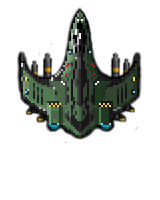
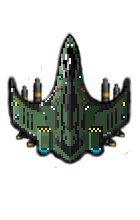
Can fire one shoot

Changed region(s): [[0.0286, 0.03, 0.9429, 0.75], [0.8857, 0.69, 0.9143, 0.72]]

diff --git a/src/ship.cpp b/src/ship.cpp
@@ -18,10 +18,17 @@ player::player(float pos_x, float pos_y)
     if (!texture_exhaust.loadFromFile("img/spaceship2_2.png")) {
         cout << "Ошибка загрузки текстуры" << endl;
     }
+    if (!texture_fire.loadFromFile("img/spaceship2_fire.png")) {
+        cout << "Ошибка загрузки текстуры" << endl;
+    }
+    if (!texture_exhaust_fire.loadFromFile("img/spaceship2_2_fire.png")) {
+        cout << "Ошибка загрузки текстуры" << endl;
+    }
     sprite.setTexture(texture);
     sprite.setOrigin(sf::Vector2f(80.f, 100.f));
     origin = sprite.getOrigin();
-    sprite.setPosition(sf::Vector2f(pos_x, pos_y)); // absolute position
+    sprite.setPosition(sf::Vector2f(pos_x, pos_y));
+    speed = 0.1;
 }
 
 void player::move(sf::Event event, unsigned int width, unsigned int height)
@@ -29,27 +36,51 @@ void player::move(sf::Event event, unsigned int width, unsigned int height)
     this->position = this->sprite.getPosition();
     if (sf::Keyboard::isKeyPressed(sf::Keyboard::Left)) {
         if (this->position.x > (0 + this->origin.x)) {
-            this->sprite.move(sf::Vector2f(-0.15f, 0)); // offset relative to the current position
+            this->sprite.move(sf::Vector2f(-3 * speed, 0));
         }
     }
     if (sf::Keyboard::isKeyPressed(sf::Keyboard::Right)) {
         if (this->position.x < (width - this->origin.x)) {
-            this->sprite.move(sf::Vector2f(0.15f, 0)); // offset relative to the current position
+            this->sprite.move(sf::Vector2f(3 * speed, 0));
         }
     }
     if (sf::Keyboard::isKeyPressed(sf::Keyboard::Up)) {
         this->sprite.setTexture(this->texture_exhaust);
         if (this->position.y > (0 + this->origin.y)) {
-            this->sprite.move(sf::Vector2f(0, -0.45f)); // offset relative to the current position
+            this->sprite.move(sf::Vector2f(0, -5 * speed));
         }
     }
     if (sf::Keyboard::isKeyPressed(sf::Keyboard::Down)) {
-        if (this->position.y < (height - (this->origin.y - 60))) {
-            this->sprite.move(sf::Vector2f(0, 0.12f)); // offset relative to the current position
+        if (this->position.y < (height - (this->origin.y))) {
+            this->sprite.move(sf::Vector2f(0, 2 * speed));
         }
     }
     if (event.type == sf::Event::KeyReleased) {
         if (event.key.code == sf::Keyboard::Up) {
+            this->sprite.setTexture(this->texture);
+        }
+    }
+
+    // if (sf::Keyboard::isKeyPressed(sf::Keyboard::Up) == 0) {
+    if (this->position.y < (height - (this->origin.y))) {
+        this->sprite.move(sf::Vector2f(0, 0.1f));
+    }
+    // }
+}
+
+void player::fire(sf::Event event, bullet* bul)
+{
+    this->position = this->sprite.getPosition();
+    if (bul->life == false && sf::Keyboard::isKeyPressed(sf::Keyboard::Up) == 1 && sf::Keyboard::isKeyPressed(sf::Keyboard::F)) {
+        this->sprite.setTexture(this->texture_exhaust_fire);
+        bul->init(position.x - 10, position.y - 60);
+    }
+    if (bul->life == false && sf::Keyboard::isKeyPressed(sf::Keyboard::F) && sf::Keyboard::isKeyPressed(sf::Keyboard::Up) == 0) {
+        this->sprite.setTexture(this->texture_fire);
+        bul->init(position.x - 10, position.y - 60);
+    }
+    if (event.type == sf::Event::KeyReleased) {
+        if (event.key.code == sf::Keyboard::F && sf::Keyboard::isKeyPressed(sf::Keyboard::Up) == 0) {
             this->sprite.setTexture(this->texture);
         }
     }

diff --git a/src/bullet.cpp b/src/bullet.cpp
@@ -1,0 +1,42 @@
+#include "ship.hpp"
+#include <iostream>
+bullet::bullet()
+{
+}
+
+bullet::~bullet()
+{
+}
+
+bullet::bullet(float pos_x, float pos_y)
+{
+    if (!texture.loadFromFile("img/bullet.png")) {
+        cout << "Ошибка загрузки текстуры" << endl;
+    }
+    sprite.setTexture(texture);
+    // sprite.setOrigin(sf::Vector2f(80.f, 100.f));
+    // origin = sprite.getOrigin();
+    sprite.setPosition(sf::Vector2f(pos_x, pos_y));
+    speed = 0.5;
+}
+
+void bullet::move()
+{
+    this->position = this->sprite.getPosition();
+    if (this->position.y > 0) {
+        this->sprite.move(sf::Vector2f(0, -1 * this->speed));
+    } else {
+        this->life = false;
+    }
+}
+
+void bullet::init(float pos_x, float pos_y)
+{
+    this->texture.loadFromFile("img/bullet.png");
+    this->sprite.setTexture(this->texture);
+    this->sprite.setPosition(sf::Vector2f(pos_x, pos_y));
+    this->speed = 0.5;
+    sprite.setOrigin(sf::Vector2f(10.0f, 17.5f));
+    this->origin = sprite.getOrigin();
+    this->life = true;
+}

diff --git a/src/ship.hpp b/src/ship.hpp
@@ -1,17 +1,38 @@
 #include <SFML/Graphics.hpp>
 #include <SFML/Window.hpp>
+#include <stdbool.h>
 using namespace std;
 
 #ifndef SHIP_HPP
 #define SHIP_HPP
+
+class bullet {
+public:
+    sf::Vector2f position;
+    sf::Vector2f origin;
+    sf::Texture texture;
+    sf::Sprite sprite;
+    float speed;
+    bool life;
+
+public:
+    bullet();
+    ~bullet();
+    bullet(float pos_x, float pos_y);
+    void move();
+    void init(float pos_x, float pos_y);
+};
 
 class ship {
 public:
     sf::Vector2f position;
     sf::Vector2f origin;
     sf::Texture texture;
+    sf::Texture texture_fire;
     sf::Texture texture_exhaust;
+    sf::Texture texture_exhaust_fire;
     sf::Sprite sprite;
+    float speed;
 
 public:
     ship();
@@ -22,5 +43,7 @@ class player : public ship {
 public:
     player(float pos_x, float pos_y);
     void move(sf::Event event, unsigned int width, unsigned int height);
+    void fire(sf::Event event, bullet* bul);
 };
+
 #endif

diff --git a/src/main.cpp b/src/main.cpp
@@ -14,7 +14,8 @@ int main()
     window.setPosition(sf::Vector2i(0, 0));
 
     player* hero_ship = new player(width / 2, height - 80);
-
+    bullet bul;
+    bul.life = false;
     while (window.isOpen()) {
 
         // check all the window's events that were triggered since the last iteration of the loop
@@ -24,15 +25,19 @@ int main()
             if (event.type == sf::Event::Closed)
                 window.close();
         }
+
+        if (bul.life == true) {
+            bul.move();
+        }
         hero_ship->move(event, width, height);
+        hero_ship->fire(event, &bul);
+
         // clear the window with black color
         window.clear(sf::Color::Black);
-
-        // draw everything here...
         window.draw(hero_ship->sprite);
-        // window.draw(...);
-
-        // end the current frame
+        if (bul.life == true) {
+            window.draw(bul.sprite);
+        }
         window.display();
     }
 
